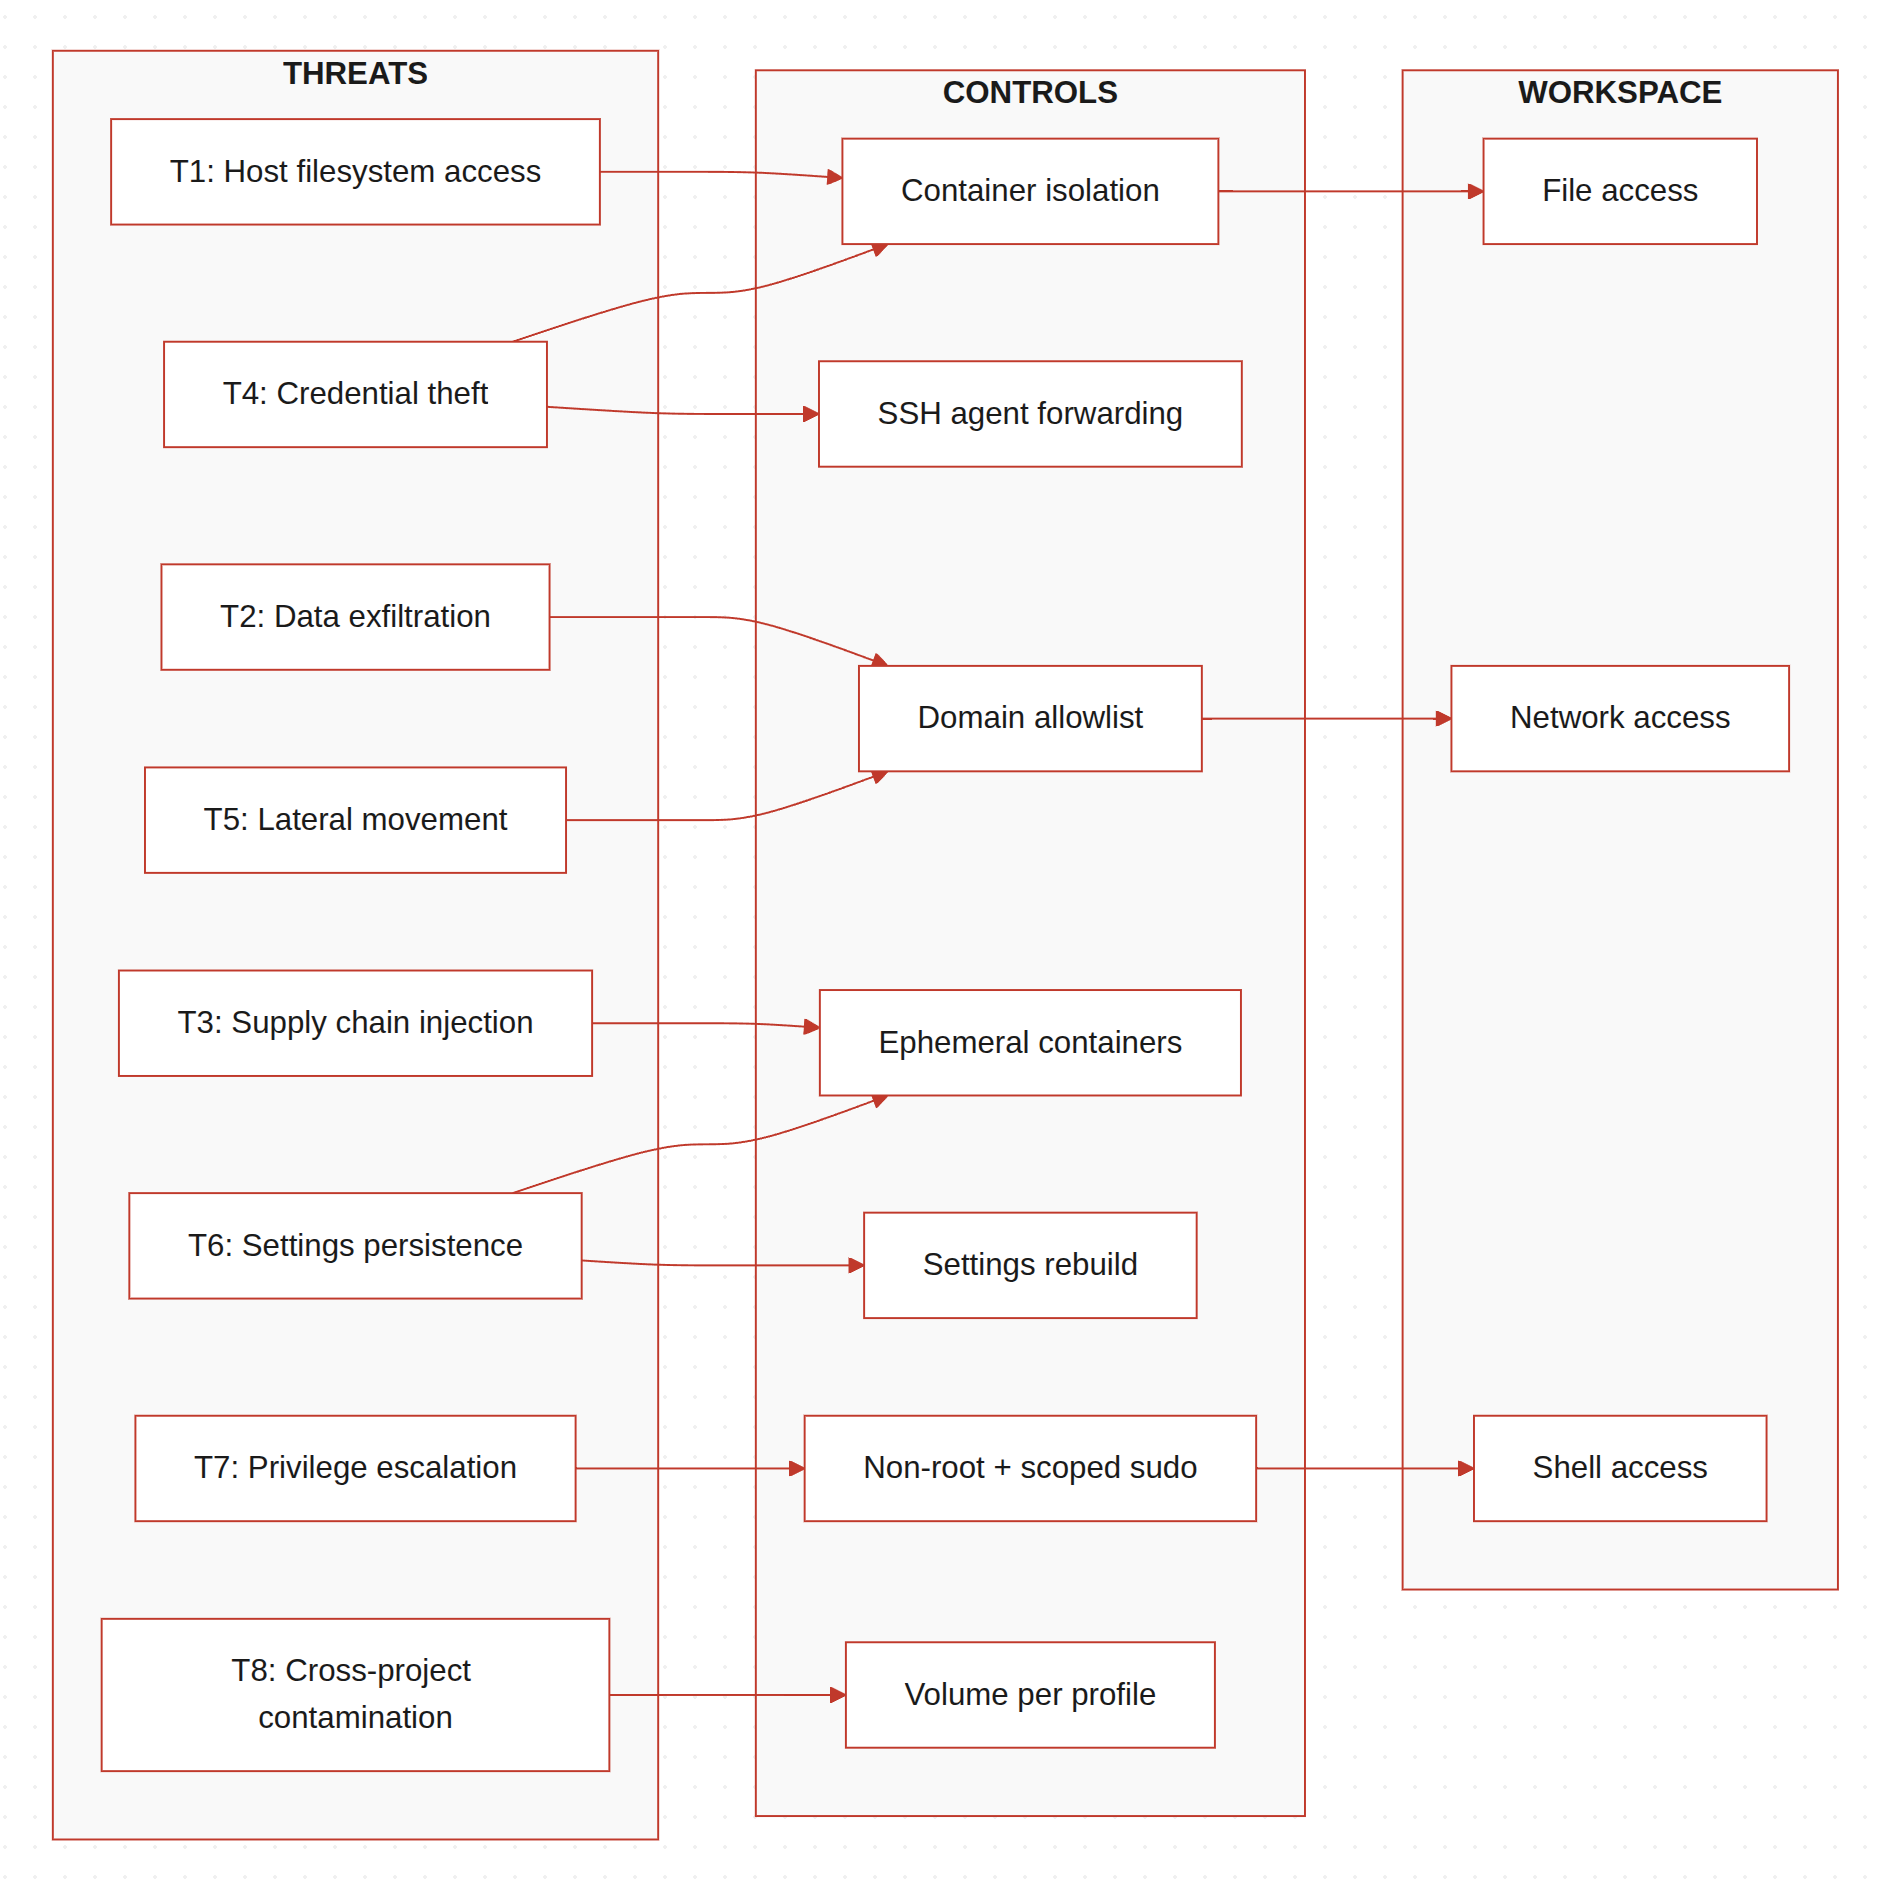
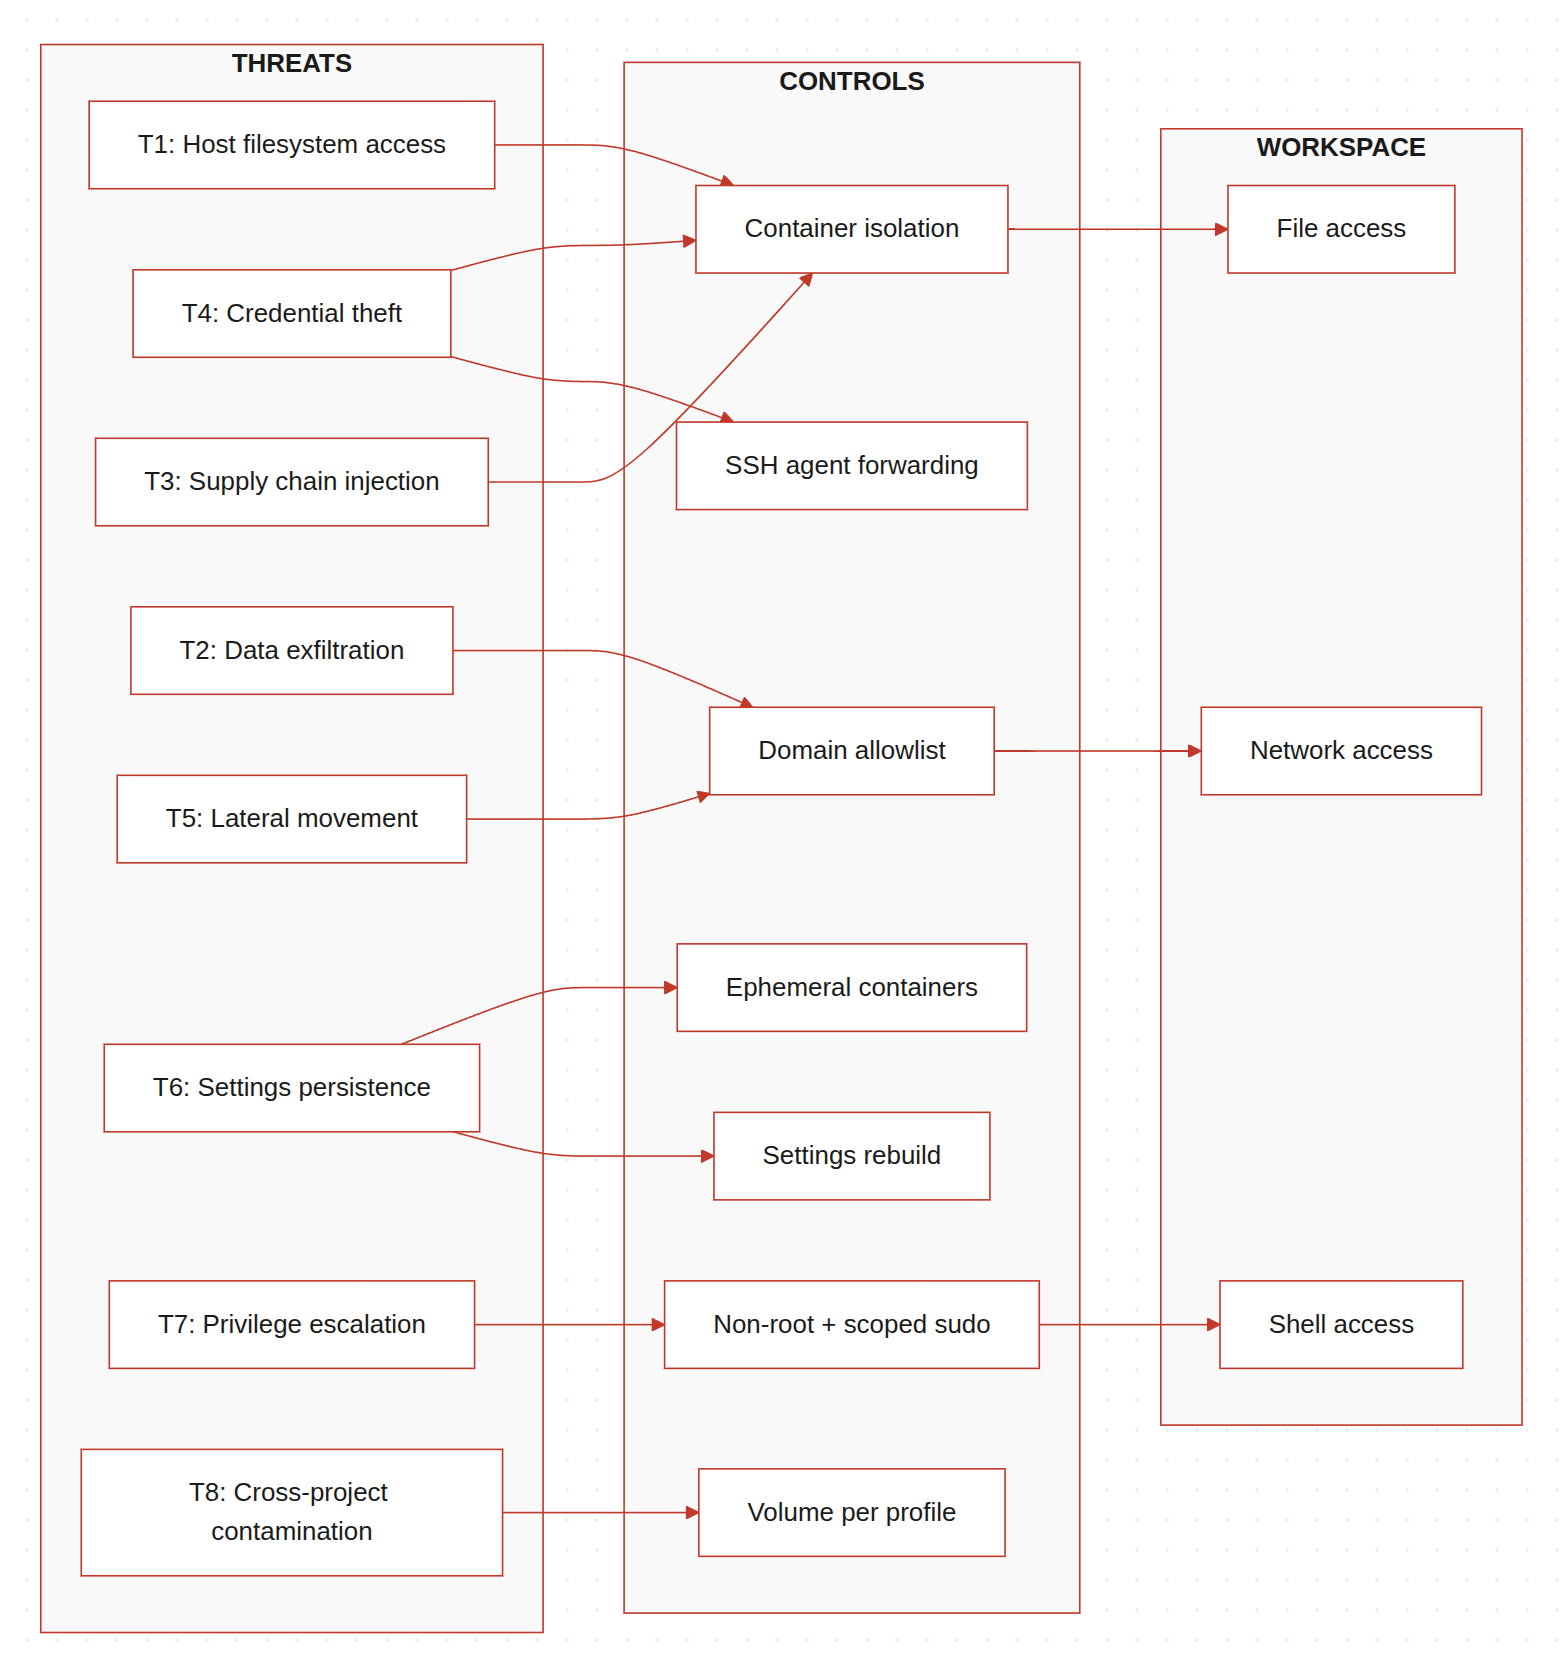
Move T3 to container isolation, update diagram
Supply chain injection is mitigated by the container boundary
(limits blast radius), not by --rm (only cleans up after).
Updated mitigation table, section header, and diagram.

diff --git a/content/the-threat-model-that-made-me-sandbox-my-ai-agents.md b/content/the-threat-model-that-made-me-sandbox-my-ai-agents.md
@@ -85,7 +85,7 @@ Here's how each control currently implemented in Claudecker maps to the threats 
 
 | Control | T1 | T2 | T3 | T4 | T5 | T6 | T7 | T8 |
 |---------|----|----|----|----|----|----|----|----|
-| Docker container isolation | ✅ | | | ✅ | | | | |
+| Docker container isolation | ✅ | | ✅ | ✅ | | | | |
 | Ephemeral containers (`--rm`) | | | | | | ✅ | | |
 | Non-root user + scoped sudo | | | | | | | ✅ | |
 | iptables allowlist firewall | | ✅ | | | ✅ | | | |
@@ -97,7 +97,7 @@ Here's how each control currently implemented in Claudecker maps to the threats 
 
 Some of these are strong mitigations. Others are just friction. I want to be honest about which is which.
 
-### Container isolation (mitigates T1, T4)
+### Container isolation (mitigates T1, T3, T4)
 
 The most basic control. Claude Code runs inside a Docker container. The only host directory mounted is the project itself. The agent can't read `~/.ssh/` or `~/.aws/` because those paths don't exist inside the container.
 
